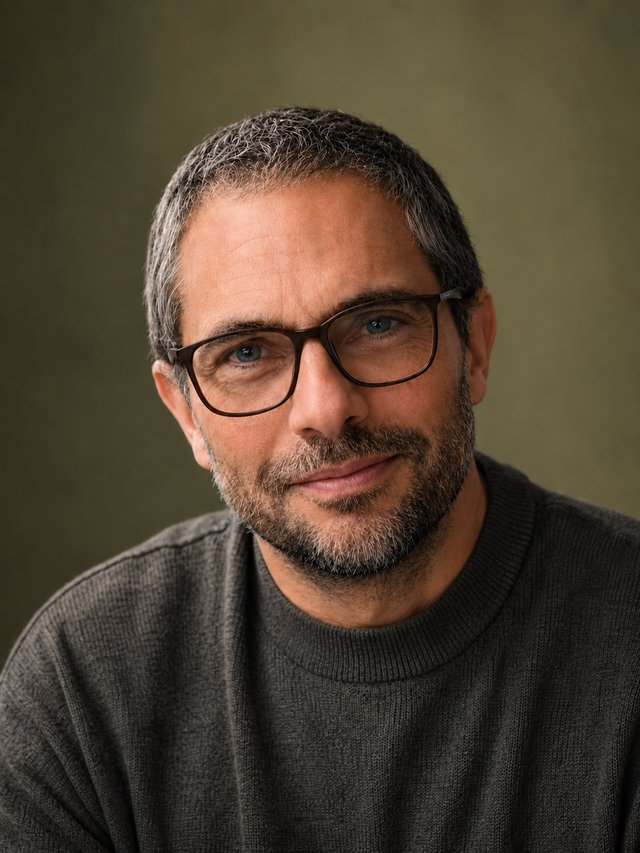
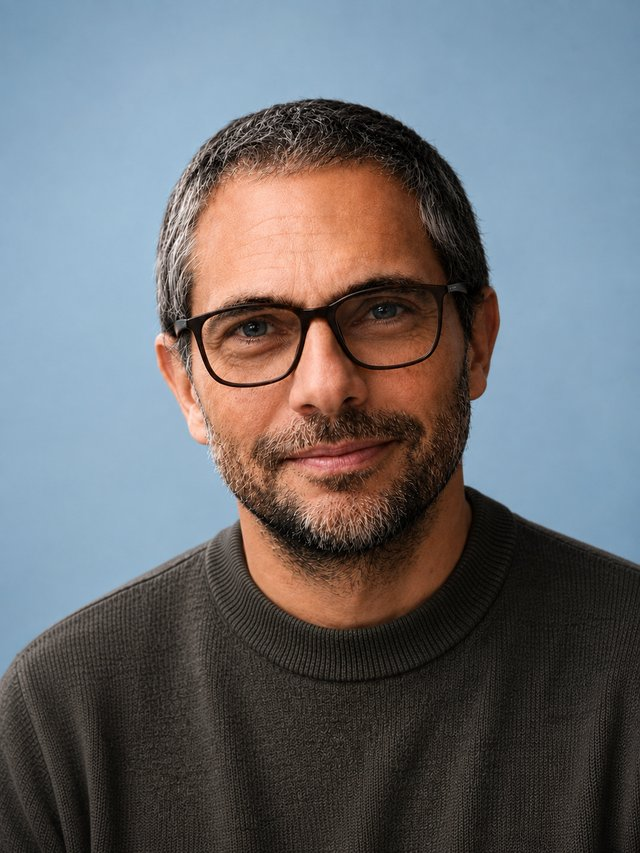
Bio: replace portrait
Claude-Session: https://claude.ai/code/session_013AJag1gC4piiRQ3cN4EWRC

diff --git a/bio/index.html b/bio/index.html
@@ -211,7 +211,7 @@ header.top,footer{border-color:#3a4048}
       </aside>
     </div>
     <div class="side">
-    <figure class="photo"><img src="portrait.jpg?v=2" alt="Portrait of Vincenzo Esposito" width="640" height="853"></figure>
+    <figure class="photo"><img src="portrait.jpg?v=3" alt="Portrait of Vincenzo Esposito" width="640" height="853"></figure>
     </div>
   </div>
 
